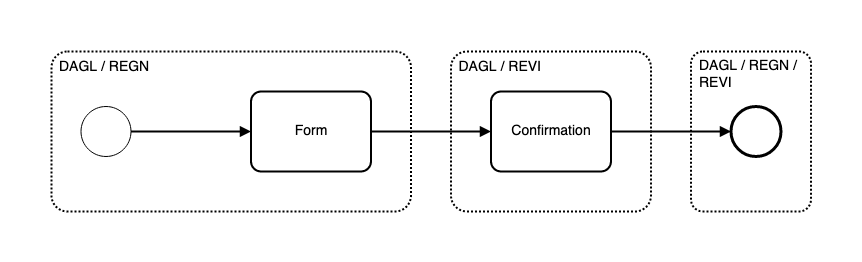
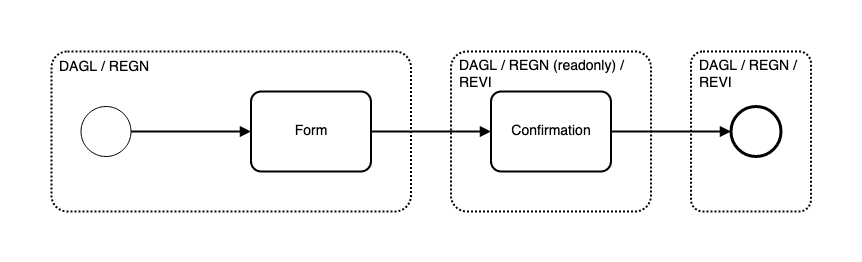
updated policy to match real case

Changed region(s): [[0.5128, 0.2137, 0.7239, 0.3359]]

diff --git a/README.md b/README.md
@@ -11,7 +11,7 @@ App used for testing process flow with different access policy for different pro
 
 ## Testing
 
-The policy is set up so that users with an accountant role in an organization can instantiate and fill out the data step, but do not have read/confirm access to the confirmation step. Users with an auditor role are only allowed to read/confirm the confirmation step but are not allowed to instantiate, read, or fill out the data task. Users with a manager (`DAGL`) role has access to every step. Everyone is allowed to see the receipt.
+The policy is set up so that users with an accountant role in an organization can instantiate and fill out the data step, but do not have confirm access to the confirmation step. Users with an auditor role are only allowed to read/confirm the confirmation step but are not allowed to instantiate, read, or fill out the data task. Users with a manager (`DAGL`) role has access to every step. Everyone is allowed to see the receipt.
 
 ### LocalTest
 
